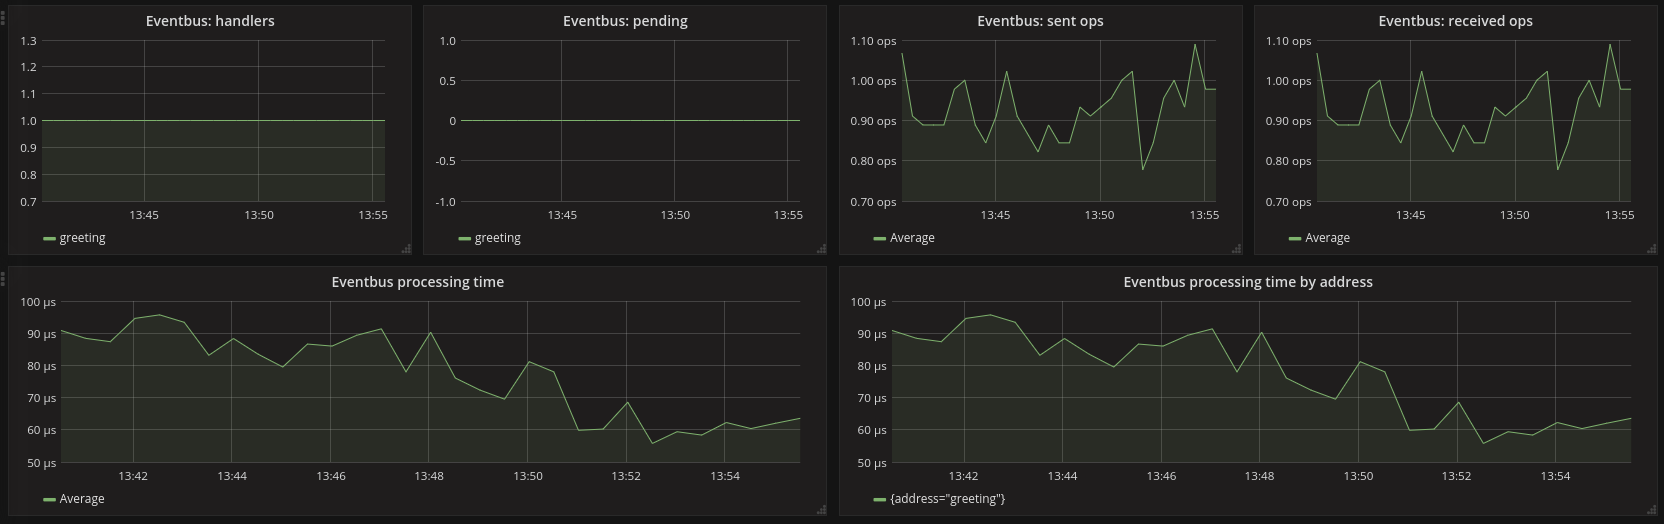
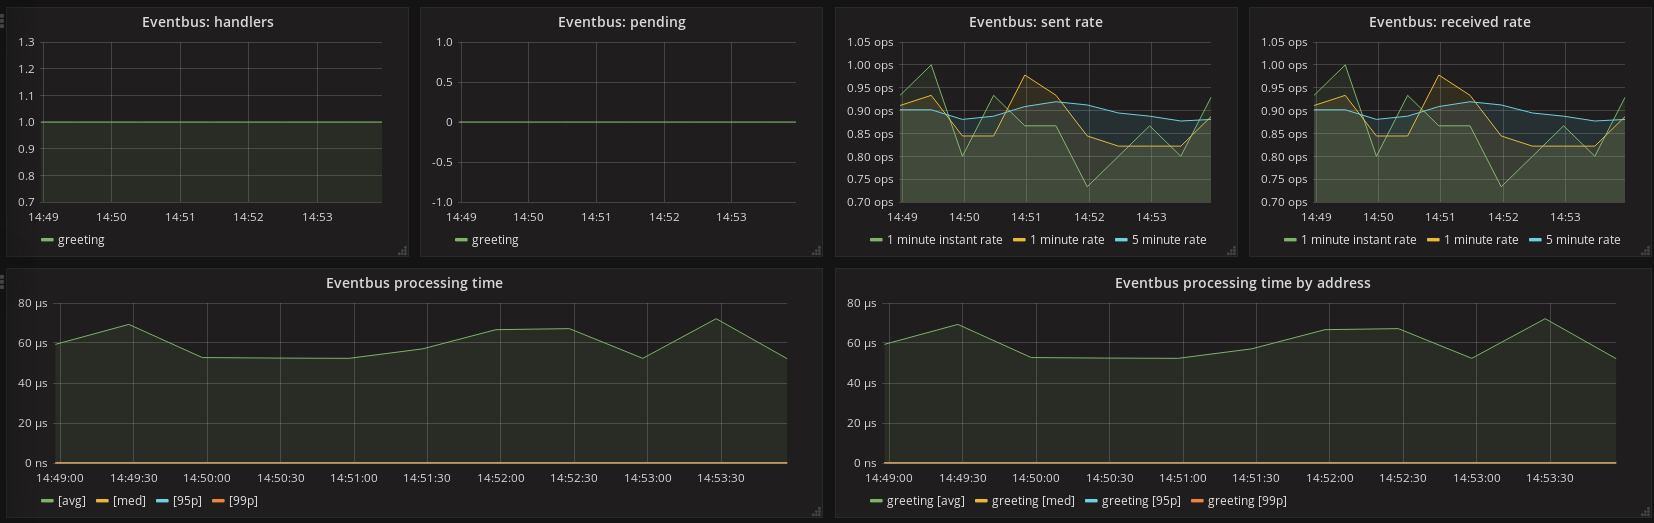
Add histogram example

diff --git a/micrometer-metrics-examples/src/main/java/io/vertx/example/micrometer/prometheus/Main.java b/micrometer-metrics-examples/src/main/java/io/vertx/example/micrometer/prometheus/Main.java
@@ -39,6 +39,20 @@ public final class Main {
         .setEnabled(true))
       .setEnabled(true);
     Vertx vertx = Vertx.vertx(new VertxOptions().setMetricsOptions(options));
+
+    // Uncomment the following to get histograms
+//    PrometheusMeterRegistry registry = (PrometheusMeterRegistry) BackendRegistries.getDefaultNow();
+//    registry.config().meterFilter(
+//        new MeterFilter() {
+//          @Override
+//          public DistributionStatisticConfig configure(Meter.Id id, DistributionStatisticConfig config) {
+//            return DistributionStatisticConfig.builder()
+//                .percentilesHistogram(true)
+//                .build()
+//                .merge(config);
+//          }
+//        });
+
     vertx.deployVerticle(new SimpleWebServer());
     vertx.deployVerticle(new EventbusConsumer());
     vertx.deployVerticle(new EventbusProducer());
